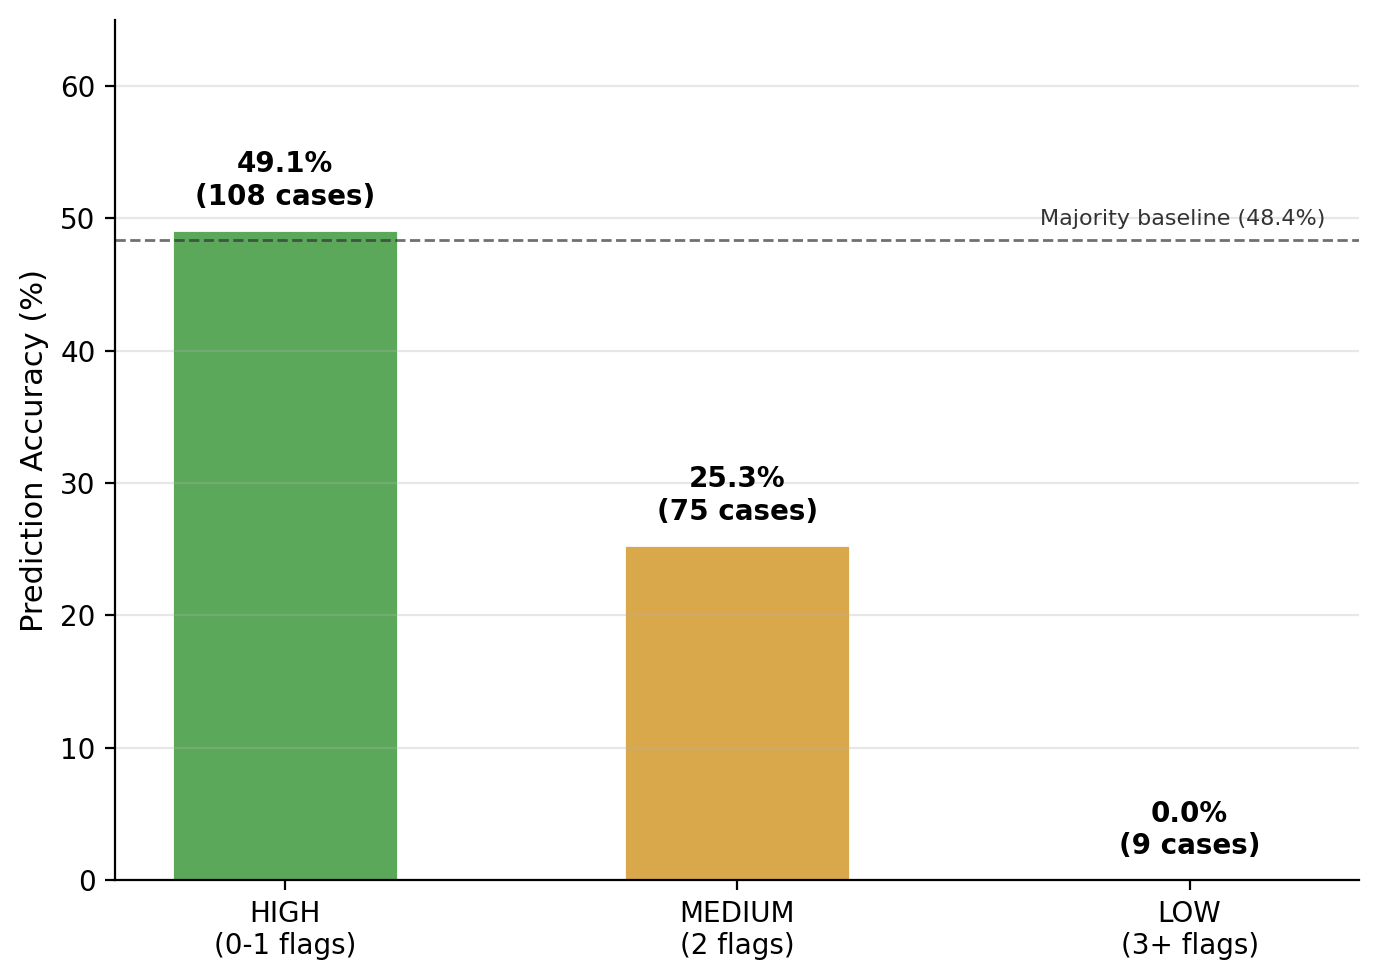
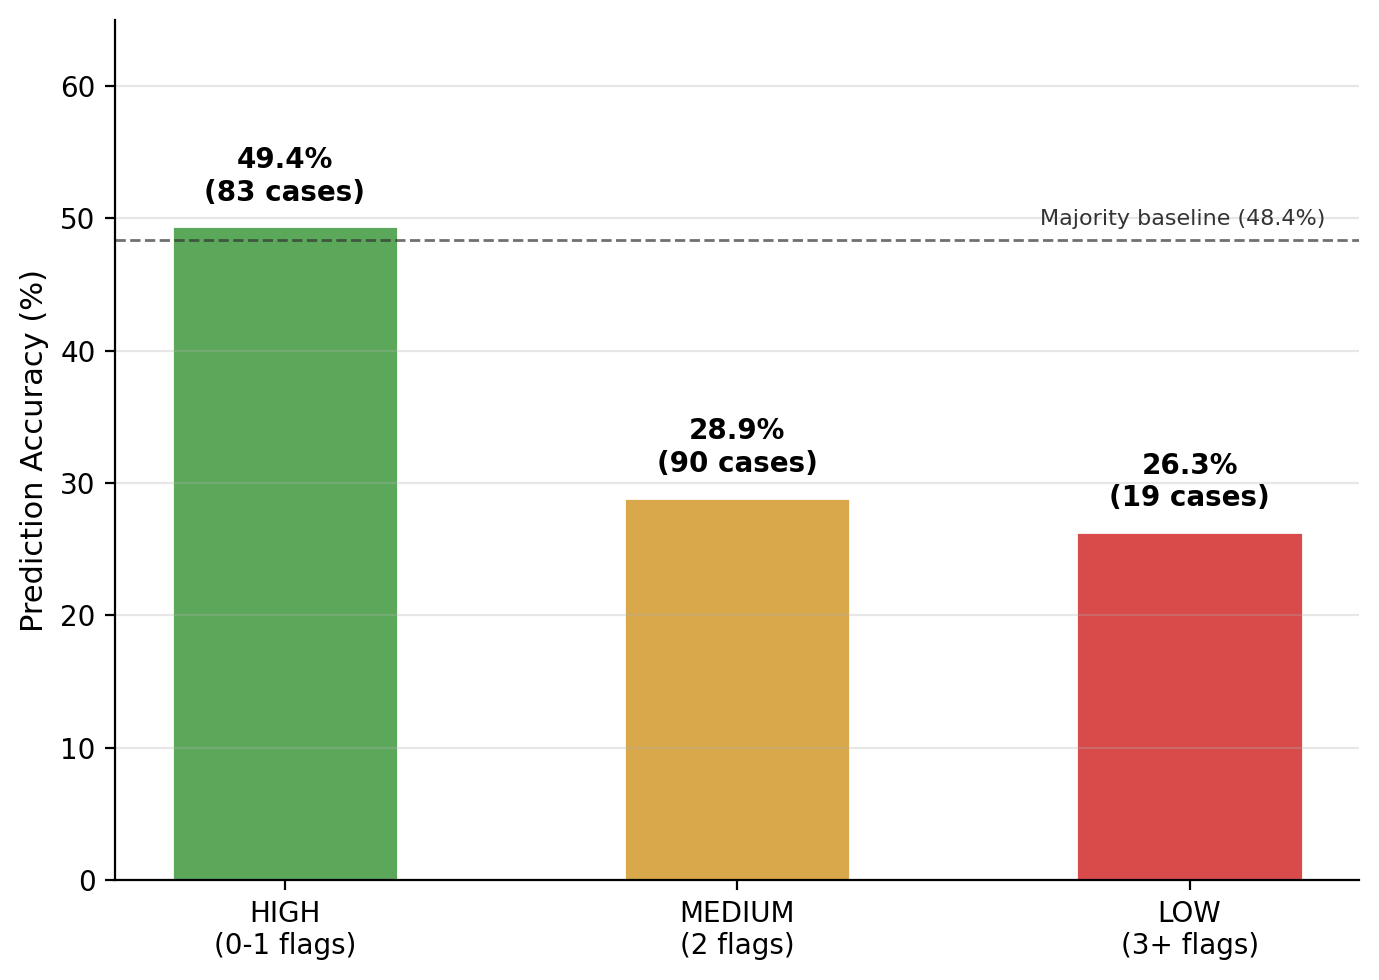
new figure added

Changed region(s): [[0.7796, 0.4592, 0.9666, 0.9184], [0.4365, 0.4286, 0.6236, 0.5816], [0.1247, 0.1531, 0.2806, 0.2449]]

diff --git a/src/testing/evaluation/report_figures.py b/src/testing/evaluation/report_figures.py
@@ -189,8 +189,8 @@ def fig_quality_accuracy(output_dir: Path) -> None:
     fig, ax = plt.subplots(figsize=(7, 5))
 
     ratings = ["HIGH\n(0-1 flags)", "MEDIUM\n(2 flags)", "LOW\n(3+ flags)"]
-    cases = [108, 75, 9]
-    accuracies = [49.1, 25.3, 0.0]
+    cases = [83, 90, 19]
+    accuracies = [49.4, 28.9, 26.3]
     colors = ["#5BA85B", "#D9A84A", "#D94A4A"]
 
     bars = ax.bar(ratings, accuracies, color=colors, edgecolor="white", width=0.5)
